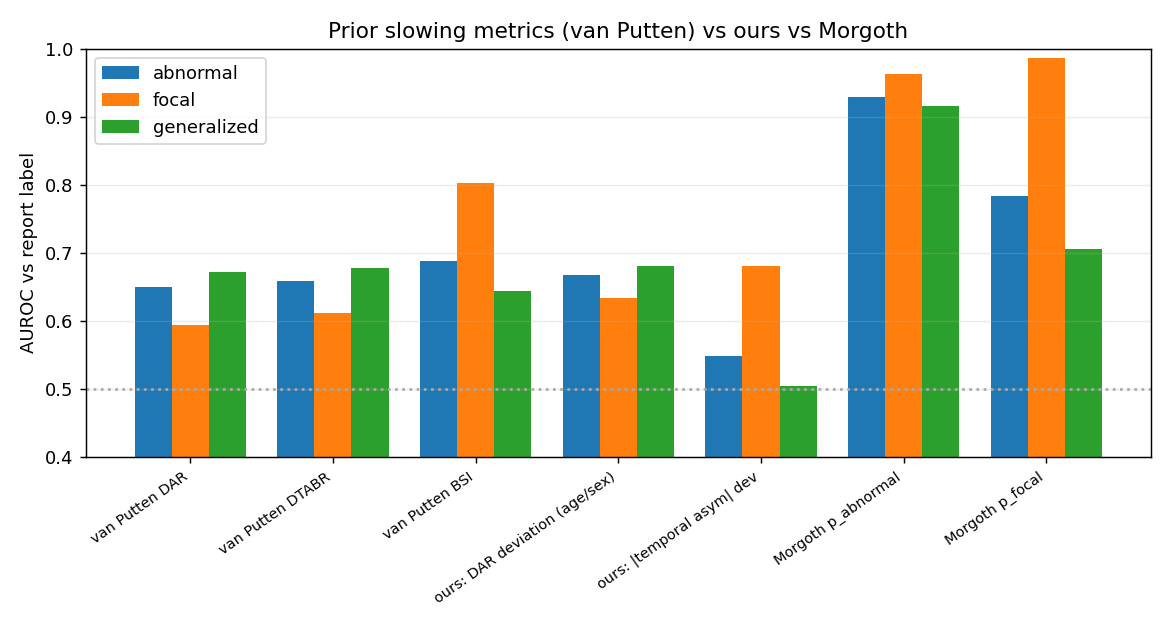
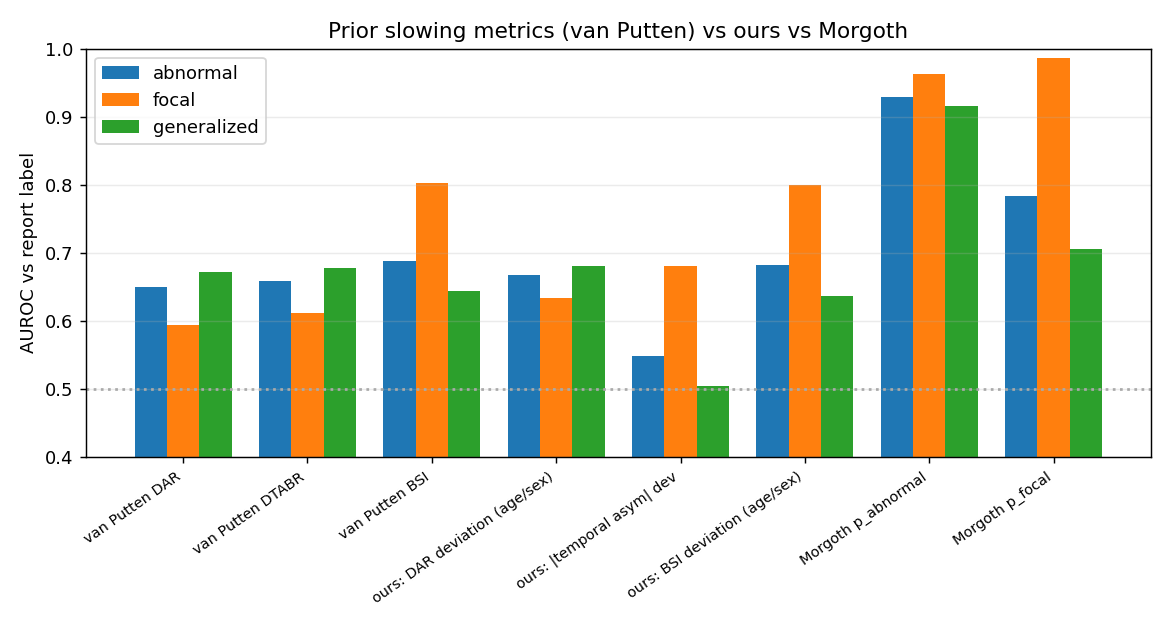
analysis outputs refresh (table1_live, vanputten fig, dashboards); gitignore fleet operational scratch

diff --git a/results/live_dashboard.html b/results/live_dashboard.html
@@ -10,22 +10,22 @@
  pre{background:#f5f7fb;padding:1rem;overflow:auto;border-radius:6px;font-size:.8rem}
 </style>
 <h1>Slowing ingestion — live dashboard</h1>
-<h2>Health checks</h2><table><tr><th>Check</th><th>Value</th><th>Status</th></tr><tr><td>whole-head rel_delta median</td><td>0.378 (expect 0.2-0.45)</td><td>✅ PASS</td></tr><tr><td>N3 rel_delta > W rel_delta (physiologic)</td><td>N3=0.321 vs W=0.353</td><td>⚠️ WARN</td></tr><tr><td>staged segments (not 'Other')</td><td>100% staged</td><td>✅ PASS</td></tr><tr><td>no all-NaN feature columns</td><td>none</td><td>✅ PASS</td></tr><tr><td>label coverage</td><td>focal_slow=1</td><td>⚠️ WARN</td></tr></table>
-<h2>Ingestion progress</h2><table><tr><td>recordings ingested</td><td>1</td></tr><tr><td>feature rows</td><td>77568</td></tr><tr><td>by label</td><td>focal_slow=1</td></tr></table>
+<h2>Health checks</h2><table><tr><th>Check</th><th>Value</th><th>Status</th></tr><tr><td>whole-head rel_delta median</td><td>0.462 (expect 0.2-0.45)</td><td>⚠️ WARN</td></tr><tr><td>N3 rel_delta > W rel_delta (physiologic)</td><td>N3=0.524 vs W=0.438</td><td>✅ PASS</td></tr><tr><td>staged segments (not 'Other')</td><td>100% staged</td><td>✅ PASS</td></tr><tr><td>no all-NaN feature columns</td><td>none</td><td>✅ PASS</td></tr><tr><td>label coverage</td><td>focal_slow=22, normal=1</td><td>✅ PASS</td></tr></table>
+<h2>Ingestion progress</h2><table><tr><td>recordings ingested</td><td>23</td></tr><tr><td>feature rows</td><td>1802040</td></tr><tr><td>by label</td><td>focal_slow=22, normal=1</td></tr></table>
 <h2>rel_delta by sleep stage (whole head)</h2><pre>       n_segments  median_rel_delta
 stage                              
-W            1238             0.353
-N1            884             0.372
-N2            884             0.405
-N3            114             0.321
-REM           112             0.381</pre>
+W           19538             0.438
+N1           5377             0.366
+N2          26954             0.447
+N3          18398             0.524
+REM          4818             0.393</pre>
 <h2>Table 1 (live)</h2><pre>|                             |                | Missing   | Overall          | Focal slowing    | Generalized slowing   | Normal           |
 |-----------------------------|----------------|-----------|------------------|------------------|-----------------------|------------------|
-| n                           |                |           | 12380            | 2068             | 5396                  | 4916             |
-| Age (years), median [Q1,Q3] |                | 18        | 53.0 [26.0,69.0] | 61.0 [44.0,72.0] | 58.0 [31.0,72.0]      | 38.0 [20.0,61.0] |
-| sex, n (%)                  | F              |           | 6123 (49.5)      | 1085 (52.5)      | 2643 (49.0)           | 2395 (48.7)      |
-|                             | M              |           | 6256 (50.5)      | 982 (47.5)       | 2753 (51.0)           | 2521 (51.3)      |
+| n                           |                |           | 12402            | 2089             | 5396                  | 4917             |
+| Age (years), median [Q1,Q3] |                | 18        | 53.0 [26.0,69.0] | 60.0 [43.0,72.0] | 58.0 [31.0,72.0]      | 38.0 [20.0,61.0] |
+| sex, n (%)                  | F              |           | 6131 (49.4)      | 1092 (52.3)      | 2643 (49.0)           | 2396 (48.7)      |
+|                             | M              |           | 6270 (50.6)      | 996 (47.7)       | 2753 (51.0)           | 2521 (51.3)      |
 |                             | None           |           | 1 (0.0)          | 1 (0.0)          | 0 (0.0)               | 0 (0.0)          |
-| Cohort, n (%)               | Newly ingested |           | 1 (0.0)          | 1 (0.0)          | 0 (0.0)               | 0 (0.0)          |
-|                             | Original       |           | 12379 (100.0)    | 2067 (100.0)     | 5396 (100.0)          | 4916 (100.0)     |</pre>
+| Cohort, n (%)               | Newly ingested |           | 23 (0.2)         | 22 (1.1)         | 0 (0.0)               | 1 (0.0)          |
+|                             | Original       |           | 12379 (99.8)     | 2067 (98.9)      | 5396 (100.0)          | 4916 (100.0)     |</pre>
 <h2>Figures</h2><p><em>No figures yet.</em></p>

diff --git a/results/fleet_burndown.html b/results/fleet_burndown.html
@@ -55,7 +55,7 @@
   <div class="card"><h2>Completed recordings</h2><div id="list"></div></div>
 </div>
 <script>
-const D = {"total": 13034, "done": 97, "remaining": 12937, "pct": 1, "elapsed": "1h 15m", "eta": "166h 53m", "rate_hr": 77.5, "status": "running", "asof": "2026-07-04 15:44", "series": [[0.0, 13034], [0.0, 13032], [34.91, 13023], [73.32, 12941], [75.08, 12937]], "cards": [{"rid": "S0001111643054_20131017", "label": "general_slow", "usable": 3864, "seg_total": 3943, "min": 75.1}], "failed": 0};
+const D = {"total": 13034, "done": 267, "remaining": 12767, "pct": 2, "elapsed": "2h 22m", "eta": "113h 30m", "rate_hr": 112.5, "status": "running", "asof": "2026-07-04 16:51", "series": [[0.0, 13034], [0.0, 13032], [34.91, 13023], [73.32, 12941], [75.08, 12937], [106.32, 12865], [137.36, 12791], [142.43, 12767]], "cards": [{"rid": "S0001111643054_20131017", "label": "general_slow", "usable": 3864, "seg_total": 3943, "min": 75.1}, {"rid": "S0001114433509_20120905", "label": "general_slow", "usable": 6246, "seg_total": 6297, "min": 106.3}, {"rid": "S0001115255254_20160701", "label": "normal", "usable": 2160, "seg_total": 3085, "min": 137.4}, {"rid": "S0002117026138_20180402", "label": "normal", "usable": 35, "seg_total": 758, "min": 142.4}], "failed": 0};
 const $ = id => document.getElementById(id);
 const LABC = {normal:'var(--normal)', focal_slow:'var(--focal)', general_slow:'var(--gen)'};
 const LABT = {normal:'normal', focal_slow:'focal', general_slow:'gen'};

diff --git a/docs/table1_live.md b/docs/table1_live.md
@@ -2,10 +2,10 @@
 
 |                             |                | Missing   | Overall          | Focal slowing    | Generalized slowing   | Normal           |
 |-----------------------------|----------------|-----------|------------------|------------------|-----------------------|------------------|
-| n                           |                |           | 12380            | 2068             | 5396                  | 4916             |
-| Age (years), median [Q1,Q3] |                | 18        | 53.0 [26.0,69.0] | 61.0 [44.0,72.0] | 58.0 [31.0,72.0]      | 38.0 [20.0,61.0] |
-| sex, n (%)                  | F              |           | 6123 (49.5)      | 1085 (52.5)      | 2643 (49.0)           | 2395 (48.7)      |
-|                             | M              |           | 6256 (50.5)      | 982 (47.5)       | 2753 (51.0)           | 2521 (51.3)      |
+| n                           |                |           | 12402            | 2089             | 5396                  | 4917             |
+| Age (years), median [Q1,Q3] |                | 18        | 53.0 [26.0,69.0] | 60.0 [43.0,72.0] | 58.0 [31.0,72.0]      | 38.0 [20.0,61.0] |
+| sex, n (%)                  | F              |           | 6131 (49.4)      | 1092 (52.3)      | 2643 (49.0)           | 2396 (48.7)      |
+|                             | M              |           | 6270 (50.6)      | 996 (47.7)       | 2753 (51.0)           | 2521 (51.3)      |
 |                             | None           |           | 1 (0.0)          | 1 (0.0)          | 0 (0.0)               | 0 (0.0)          |
-| Cohort, n (%)               | Newly ingested |           | 1 (0.0)          | 1 (0.0)          | 0 (0.0)               | 0 (0.0)          |
-|                             | Original       |           | 12379 (100.0)    | 2067 (100.0)     | 5396 (100.0)          | 4916 (100.0)     |
+| Cohort, n (%)               | Newly ingested |           | 23 (0.2)         | 22 (1.1)         | 0 (0.0)               | 1 (0.0)          |
+|                             | Original       |           | 12379 (99.8)     | 2067 (98.9)      | 5396 (100.0)          | 4916 (100.0)     |